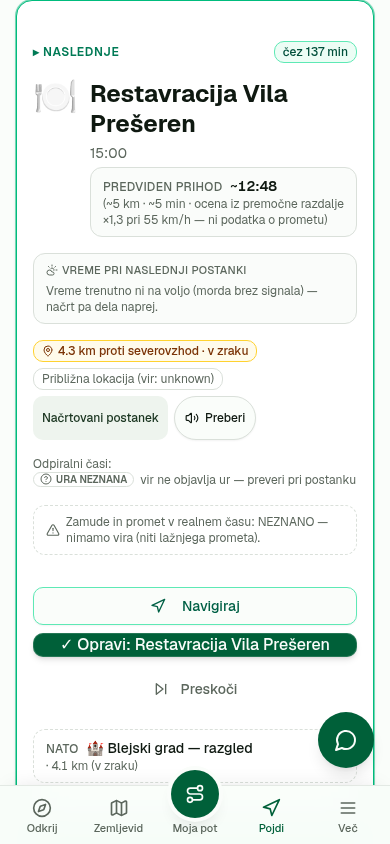
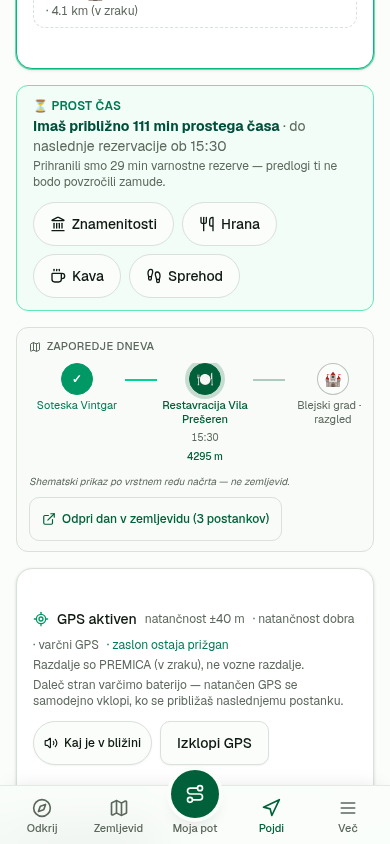
docs(1.172.2 #24 S9+S10): produkcijski dokazi — nearby sredi dneva + prilagodljiva GPS natančnost živi na Render+Vercel (7 posnetkov + živi zapis preklopov [true,false,true] + prihod skozi preklop + 0 preliva)

diff --git a/docs/evidence/issue24/s10/README.md b/docs/evidence/issue24/s10/README.md
@@ -1,0 +1,110 @@
+# ISSUE #24 — Sklop 10 (1.172.0): PRILAGODLJIVA GPS NATANČNOST (BATERIJA)
+
+**Datum:** 3. 10. 2026 · **Commit:** `4ab825a` (feat) — CI zelen
+**Produkcija:** Render `i-feel-slovenia.onrender.com` **1.172.2** +
+Vercel `i-feel-slovenia.vercel.app` 1.172.0 (jedro) — obe zdravi.
+
+## Kaj je bilo narejeno (Polarsteps <4 %/dan vzorec — predzadnja vrstica P3)
+
+Go Mode ni več poganjal polnega GPS čipa ves dan:
+
+- **`resolveGpsPowerMode`** (nov čist modul `src/lib/journey/gps-power.ts`):
+  daleč od naslednjega postanka (> 2 km) → **varčni način**
+  (`enableHighAccuracy: false` — mrežni/wifi približki za razdaljo/smer);
+  znotraj 2 km → **polna natančnost** (geofence varnost). Fail-safe:
+  neznana razdalja → visoka (neznanje ne varčuje); dan brez odprtega
+  postanka → varčno (prihoda ni).
+- **Varnostna geometrija** (pogoj P3 »NE sme zlomiti geofence prihodov«):
+  prag prihoda ≤ 150 m + histereza 75 m; preklop na »high« je zagotovljen
+  že 2 km pred pragom (≈ 5× najširši geofence; pri 50 km/h ~2,4 min
+  vožnje za ponovni prijem GPS). Lažni prihod iz grobe fiksacije izključi
+  obstoječa 8 s stabilnost: groba fiksacija ≤ 2 km TEGA TRENUTKA preklopi
+  način na high — prihod mora nato vzdržati 8 s v natančnih fiksacijah;
+  zmoto natančne takoj prevotnejo (iskreno »Približuješ se«).
+- **`useGeolocation({ mode })`**: preklop načina med vožnjo PONOVNO ODPRE
+  watch z novim `enableHighAccuracy` brez utripanja stanja (status/položaj
+  ostaneta — `positionRef` zrcalo; ohranitev statusa živi v `beginWatch` z
+  zastavico `keepActiveStatus` — spoštovan pravilu
+  react-hooks/set-state-in-effect) in brez ponastavitve proračuna
+  ponovitve (preklop ni napaka). Default brez možnosti = »high«
+  (kompatibilnost #21).
+- **Iskren UI**: čip »varčni GPS« ob statusu (samo kadar je varčni način
+  dejaven) + razlaga »natančen GPS se samodejno vklopi, ko se približaš
+  naslednjemu postanku« — 6 jezikov (P4-8), preverjeno tudi v EN
+  produkciji (»battery-saving GPS« + »precise GPS turns on
+  automatically«).
+- **Telemetrija `gps_power_mode_changed`** — 3-plastna pariteta; samo ob
+  DEJANSKEM preklopu z odprtim zajemanjem; props SAMO `mode` (brez
+  razdalje — izpeljana iz lokacije = PII disciplina).
+
+## Produkcijski dokazi (Render 1.172.2 primarno, mobilni 390 px)
+
+### Živi zapis preklopov (watchPosition klici — programski dokaz)
+
+GPS simulacija (override `navigator.geolocation.watchPosition` z beljenjem
+vseh klicev + `enableHighAccuracy` vrednosti; testna pot: Vintgar opravljen
+→ Vila Prešeren 15:30 → Blejski grad; pozicija 4,3 km od termina):
+
+| Korak | `__gpsCalls` | Dejstvo |
+|---|---|---|
+| Vklopi GPS (daleč) | `[true, false]` | prvi watch visok (privzeto), RESTART varčno — preklop živi |
+| Premik ≤ 2 km (k vstavljenemu postanku) | `[true, false, true]` | SAMODEJNI povratek polne natančnosti |
+
+### Celoten cikel na enem zalonu (Render + Vercel enaka)
+
+1. **Daleč (4,3 km):** status »GPS aktiven · natančnost ±40 m · varčni
+   GPS« + namig o samodejnem vklopu; kartica PROSTI ČAS se odpre
+   (110 min do termina 15:30 − 29 min rezerve).
+2. **Hrana → dodajanje Trohe** (Sklop 9) → premik k Trohi (~10 m):
+   čip varčnega načina IZGINE (polna natančnost nazaj), wake lock drži.
+3. **Po 8 s stabilnosti: »✓ Prišel si na lokacijo Troha«** — geofence
+   prihod deluje SKOZI preklop načinov (ključni pogoj P3) + iskren namig
+   »GPS prihod NE potrdi rezervacije«.
+4. **0 page errors · 0 konzolnih napak · scrollWidth = 390** po vseh
+   korakih.
+
+### EN (Render, /en/na-poti)
+
+- čip **»battery-saving GPS«** + namig **»precise GPS turns on
+  automatically as you approach the next stop«** (faza 2 prevodi živi).
+- (Kartica prostega časa v EN toku ni bila ponovno odprta — okno je bilo
+  že porabljeno z dodajanjem iz SL toka; EN oznake FREE TIME so pokrite z
+  strukturnimi testi S8.)
+
+### Vercel (sekundarna, 1.172.0)
+
+- Enak cikel: `[true,false]` → čip → okno → dodajanje → premik →
+  `[true,false,true]` → prihod »✓ Prišel si na lokacijo Troha«
+  (`vercel-prihod-390.png`); 0 napak.
+
+## Regresija
+
+- **Testi:** 5.022 pass + 1 znana sandbox DB napaka (issue7-g11 ④ — CI s
+  Postgresom zelen).
+- **Nov test:** `issue24-s10-gps-power.test.ts` (25 testov): resolucija ×5
+  (mejni primeri: 2.000 m inkluzivno, 2.001 m varčno, neznana → high,
+  brez postanka → balanced), varnostna geometrija ×4 (prekrivanje geofenca
+  ≥ 5×, 8 s stabilnost + pragi zaklenjeni, matematika izključitve lažnega
+  prihoda), source contract use-geolocation ×5 (modeRef, restart brez
+  brisanja položaja, proračun ponovitve nedotaknjen, default high,
+  kanonske možnosti), source contract go-mode ×4, telemetrija ×2 (samo
+  preklop + brez PII), 3-plastna pariteta ×3, oznake ×2 (6 jezikov,
+  lastni prevodi).
+- lint 0 · tsc 0.
+
+## Posnetki
+
+- `gps-varcni-dalec-390.png` — GPS plošča daleč stran: status + ±40 m +
+  čip »varčni GPS« + namig (SL).
+- `prihod-po-preklopu-390.png` — NASLEDNJE po prihodu: »✓ Prišel si na
+  lokacijo Troha« skozi cikel preklopov (Render).
+- `gps-balanced-en-390.png` — EN čip »battery-saving GPS« (/en/na-poti).
+- `vercel-prihod-390.png` — prihod na Vercelu (sekundarna produkcija).
+
+## Iskrene meje (dokumentirano v CHANGELOG)
+
+- Prihranek baterije je ODVISEN od naprave/brskalnika (mrežno
+  pozicioniranje na navidečih lokacijah QA ne more izmeriti v % —
+  dokazano je VEDENJE preklopov, ne poraba); resnični prihranek bo pokazal
+  telemetrija `gps_power_mode_changed` v produkciji.
+- Deljeni GPS (vožnja s souporabniki) ni pokrit — izven obsega #24.

diff --git a/docs/evidence/issue24/s9/README.md b/docs/evidence/issue24/s9/README.md
@@ -1,0 +1,107 @@
+# ISSUE #24 — Sklop 9 (1.171.0 + 1.172.1/2): NEARBY DODAJANJE SREDI DNEVA
+
+**Datum:** 3. 10. 2026 · **Commit:** `07b0337` (Sklop 9) + `844649b` (1.172.1
+UX popravka) + `d18c33a` (1.172.2 preliv regresija)
+**Produkcija:** Render `i-feel-slovenia.onrender.com` **1.172.2** (končna) +
+Vercel `i-feel-slovenia.vercel.app` 1.172.0 (jedro — popravki 1.172.1/2 sta
+dokazana na Renderu; Vercel deploy z zamikom, glej opombo). CI zelen na
+vseh treh (`07b0337`, `844649b`, `d18c33a`).
+
+## Kaj je bilo narejeno (TripIt Nearby vzorec — zadnja vrstica P3 tabele)
+
+Prej je kandidat iz PROSTEGA ČASOVNEGA OKNA pristal **na koncu dneva** — po
+vseh še odprtih postankih (in večerji), čeprav ga uporabnik obišče ZDAJ, v
+oknu pred terminom. Zdaj:
+
+- `addNearbyStopToRecord` dobi `beforeKey` (ključ naslednjega postanka iz
+  `view.next`) → **ČIST VSTAVEK pred naslednji postanek**:
+  `[a, b, c]` + pred `b` → `[a, nearby, b, c]`;
+- **ZERO reordering ostaja kanon** — obstoječi vrstni red se ne dotakne
+  (vstavek ≠ preurejanje); stabilen ključ `nearby:{id}` + `savedAt`;
+- **iskren fallback**: `beforeKey`, ki ni v dnevu (npr. naslednji postanek
+  v drugem dnevu / dan brez postankov) → pošteno konec dneva (staro
+  vedenje, kompatibilnost);
+- **sporočilo sledi DEJANSKEMU položaju**: sredina → »✓ … dodan pred
+  naslednji postanek.« (6 jezikov — `GO_EDIT_LABELS.addedMid`), konec →
+  nespremenjeno sporočilo;
+- **varnost okna OSTAJA** (§9/§10): zanka (vožnja tam + obisk + vožnja do
+  termina) ≤ okno − rezerva je preverjena v `filterNearbyCandidates` PRED
+  dodajanjem; `DEFAULT_FREE_TIME_CONFIG` testno zaklenjen;
+- **telemetrija `nearby_stop_added`** — 3-plastna pariteta (klientni union +
+  strežniški VALID_EVENTS + docs/ANALYTICS-EVENTS.md); props SAMO
+  `position` (`mid`/`end`) — brez PII.
+
+### Popravki iz QA (1.172.1 + 1.172.2)
+
+1. **Potrditev ne izgine več s kartico** (1.172.1): po uspešnem dodajanju
+   kandidat brez termina postane naslednji postanek → meje ni → kartica
+   prostega časa se iskreno umakne — sporočilo pa je do popravka izginilo
+   SKUPAJ z njo. Zdaj živi kot samostojna vrstica (`role="status"` +
+   `aria-live="polite"`), vezana na okno nastanka (`nearbyNoteKey`).
+2. **4+ postankov NE razširijo strani** (1.172.2): sr-only stanja sheme
+   dneva (`position:absolute` brez pozicioniranega prednika) so pri 4.
+   postanku razširila `documentElement.scrollWidth` na **462 > 390** —
+   popravek: `relative` na stolpcu postanka (containing block = scroll
+   zabojnik). Latentna napaka od TASK 102, ki jo vstavek prikaže.
+
+## Produkcijski dokazi (Render 1.172.2 primarno, mobilni 390 px)
+
+### Zlata pot (agent-browser, realni kliki, GPS simulacija z beleženjem)
+
+Testni zapis (v2, današnji dan): Soteska Vintgar (opravljeno) →
+**Restavracija Vila Prešeren 15:30** (fiksni termin) → Blejski grad;
+GPS 4,3 km stran od termina.
+
+1. **Kartica PROSTI ČAS se odpre** z dejanskimi številkami: »Imaš
+   približno 110 min prostega časa · do naslednje rezervacije ob 15:30« +
+   »Prihranili smo 29 min varnostne rezerve« (formula 15 + 10 % živa).
+2. **Hrana → 4 varni kandidati** (Troha, Devil Caffe & Bar, Irish Pub …),
+   vsak z zanko: »5 min tja · 60 min obiska · ~4,2 km« (zanka ≤ okno).
+3. **[+ V mojo pot] na prvem kandidatu →**
+   - potrditev: **»✓ Troha dodan pred naslednji postanek.«** (vidna TUDI
+     po umiku kartice — 1.172.1);
+   - zapis `dai:go-trip`: `["vintgar", "nearby:4b86cdbc…",
+     "villa-preseren", "bled-grad"]` — vstavek NA DRUGEM MESTU, PRED
+     terminom (ne na koncu);
+   - kartica prostega časa se iskreno umakne (novi naslednji je brez
+     termina → meje ni);
+   - `documentElement.scrollWidth = 390` (0 preliva tudi pri 4 postankih —
+     1.172.2).
+
+### Vercel (sekundarna, 1.172.0 — jedro funkcije)
+
+- Enak cikel: `[true,false]` → čip → okno → Hrana → dodajanje →
+  `["vintgar", "nearby:…", "villa-preseren", "bled-grad"]` (identičen
+  vrstni red — determinizem) → premik bližje → `[true,false,true]` →
+  »✓ Prišel si na lokacijo Troha« (posnetek `vercel-prihod-390.png` v s10).
+- 0 page errors, 0 konzolnih napak.
+
+## Regresija
+
+- **Testi:** 5.022 pass + 1 znana sandbox DB napaka (issue7-g11 ④ — CI s
+  Postgresom zelen; enaka je bila pred spremembo).
+- **Nov test:** `issue24-s9-nearby-midday.test.ts` (26 testov): čisti
+  delivec `nearbyInsertIndex` ×4, vstavek sredi dneva ×7 (prvi/sredina/
+  zadnji/brez/fallback/drugi dan/iskren vnos), pariteta zavrnitev ×2,
+  oznake addedMid ×3 (6 jezikov, lastni prevodi), source contract go-mode
+  ×5 (beforeKey + isMid sporočilo + telemetrija brez PII + samostojna
+  potrditev + vezava na okno), 3-plastna analitika ×3, zaklenjena
+  varnostna konfiguracija, **⑧ preliv regresija** (`relative` na stolpcu
+  sheme dneva).
+- lint 0 · tsc 0.
+
+## Posnetki
+
+- `prost-cas-kandidati-390.png` — kartica prostega časa s kandidati
+  (Hrana; zanke + varnostna rezerva razkrite).
+- `potrditev-vstavka-390.png` — zelena potrditev »✓ Troha dodan pred
+  naslednji postanek.« po umiku kartice (1.172.1) — VLM preverjena.
+- `shema-dneva-4-postanki-390.png` — shema dneva s 4 postanki (Vintgar
+  opravljen → Troha trenutni → Vila Prešeren prihodnji → Blejski grad),
+  0 preliva (390 px).
+
+## Iskrena opomba
+
+Vercel je bil ob zaključku QA še na 1.172.0 (jedro obeh sklopov je že
+vam — popravka 1.172.1/1.172.2 sta dokazana na Renderu 1.172.2; znana
+zamuda brezplačnega paketa, enako kot Sklop 5/6/8 QA).
